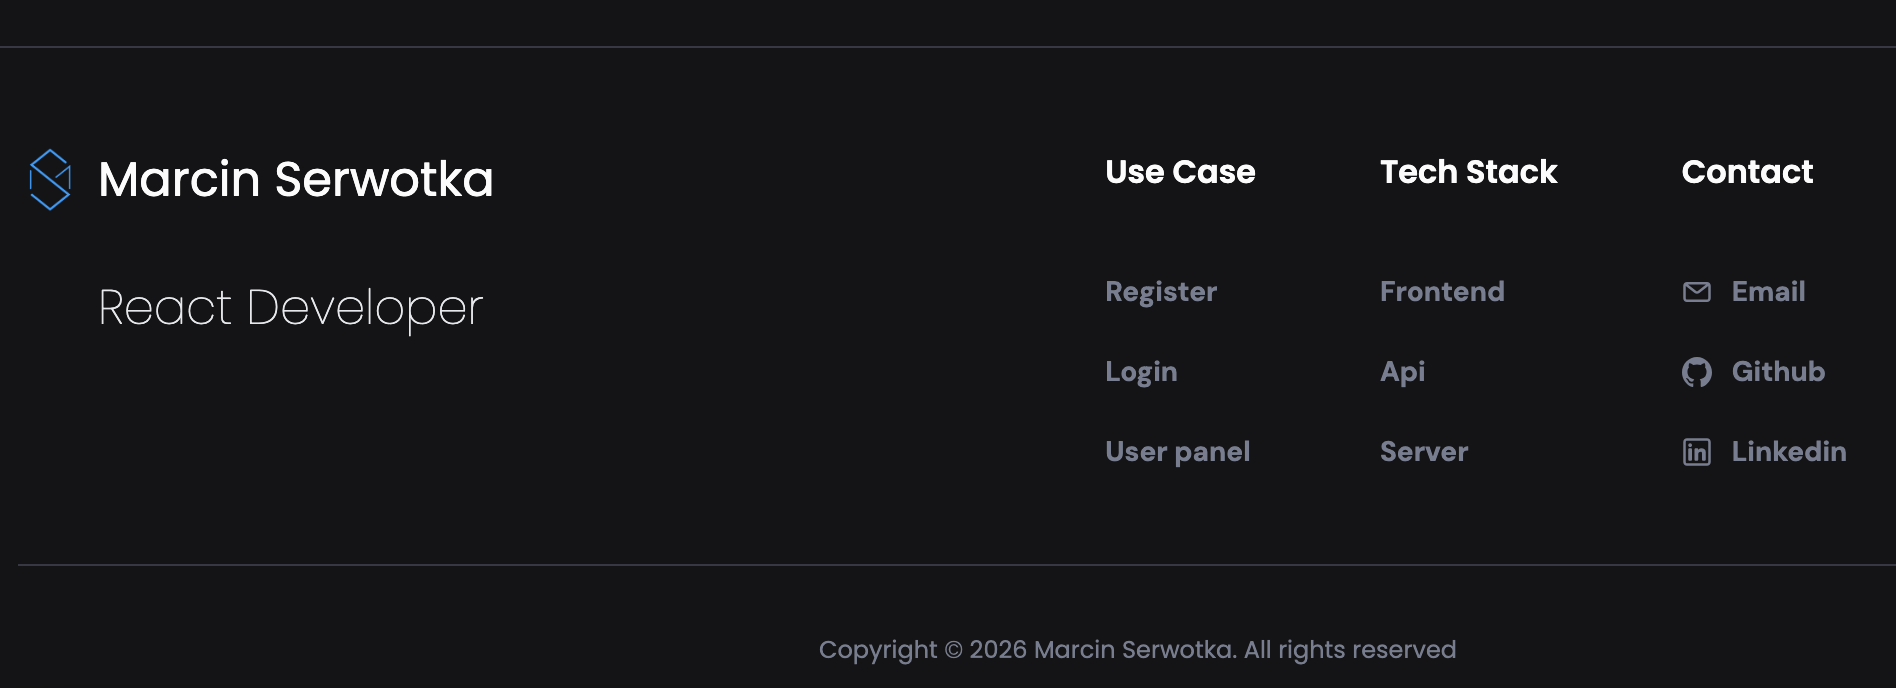
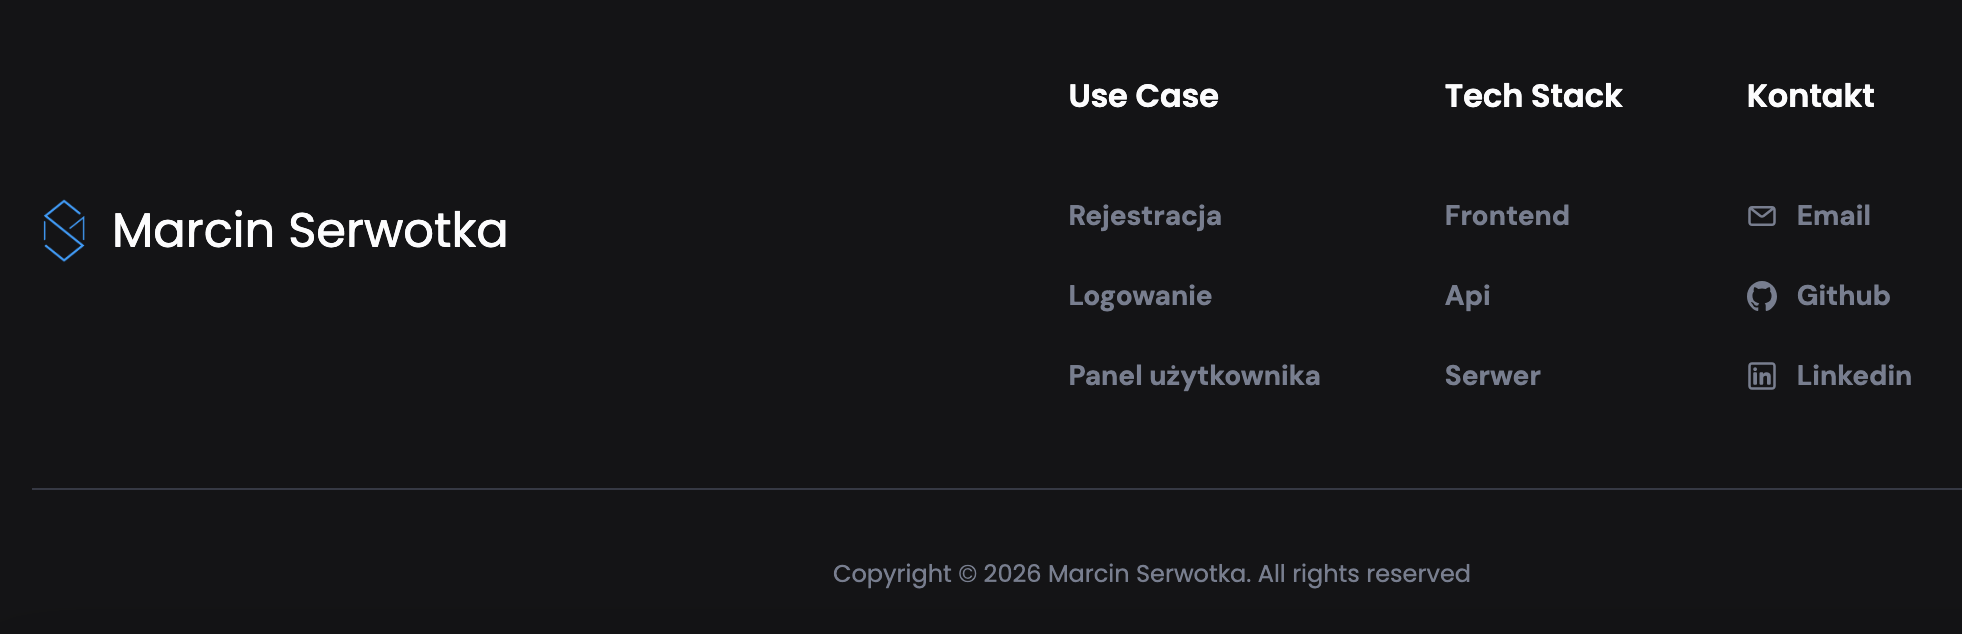
description changes

diff --git a/src/components/footer/logo-section/logo-section.tsx b/src/components/footer/logo-section/logo-section.tsx
@@ -5,7 +5,7 @@ const LogoSection = () => {
   return (
     <section className={styles.logoSection}>
       <Logo />
-      <p className={styles.logoSection_text}>{`React Developer`}</p>
+      {/* <p className={styles.logoSection_text}>{`React Developer`}</p> */}
     </section>
   );
 };

diff --git a/src/components/footer/logo-section/logo-section.module.scss b/src/components/footer/logo-section/logo-section.module.scss
@@ -8,6 +8,7 @@
   white-space: pre-line;
   display: flex;
   flex-direction: column;
+  // align-items: center;
   padding-bottom: 1px;
 
   &_text {

diff --git a/src/components/footer/footer.module.scss b/src/components/footer/footer.module.scss
@@ -58,4 +58,6 @@
 .logoLink {
   text-decoration: none;
   color: colors.$neutrals8;
+  display: flex;
+  align-items: center;
 }
